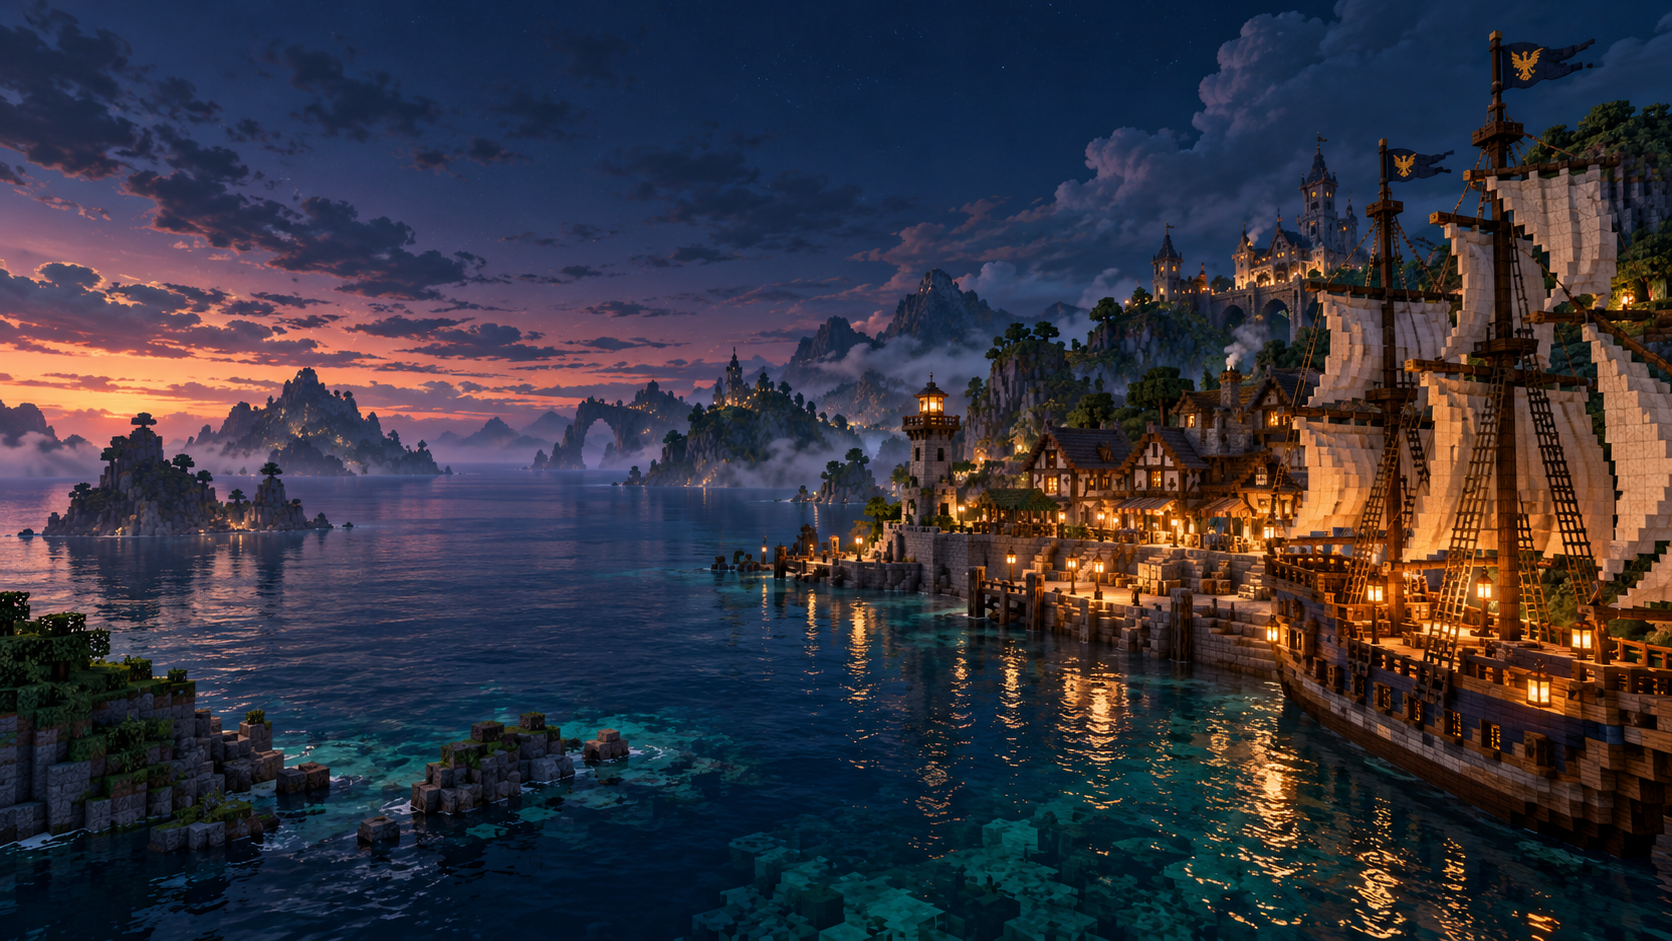
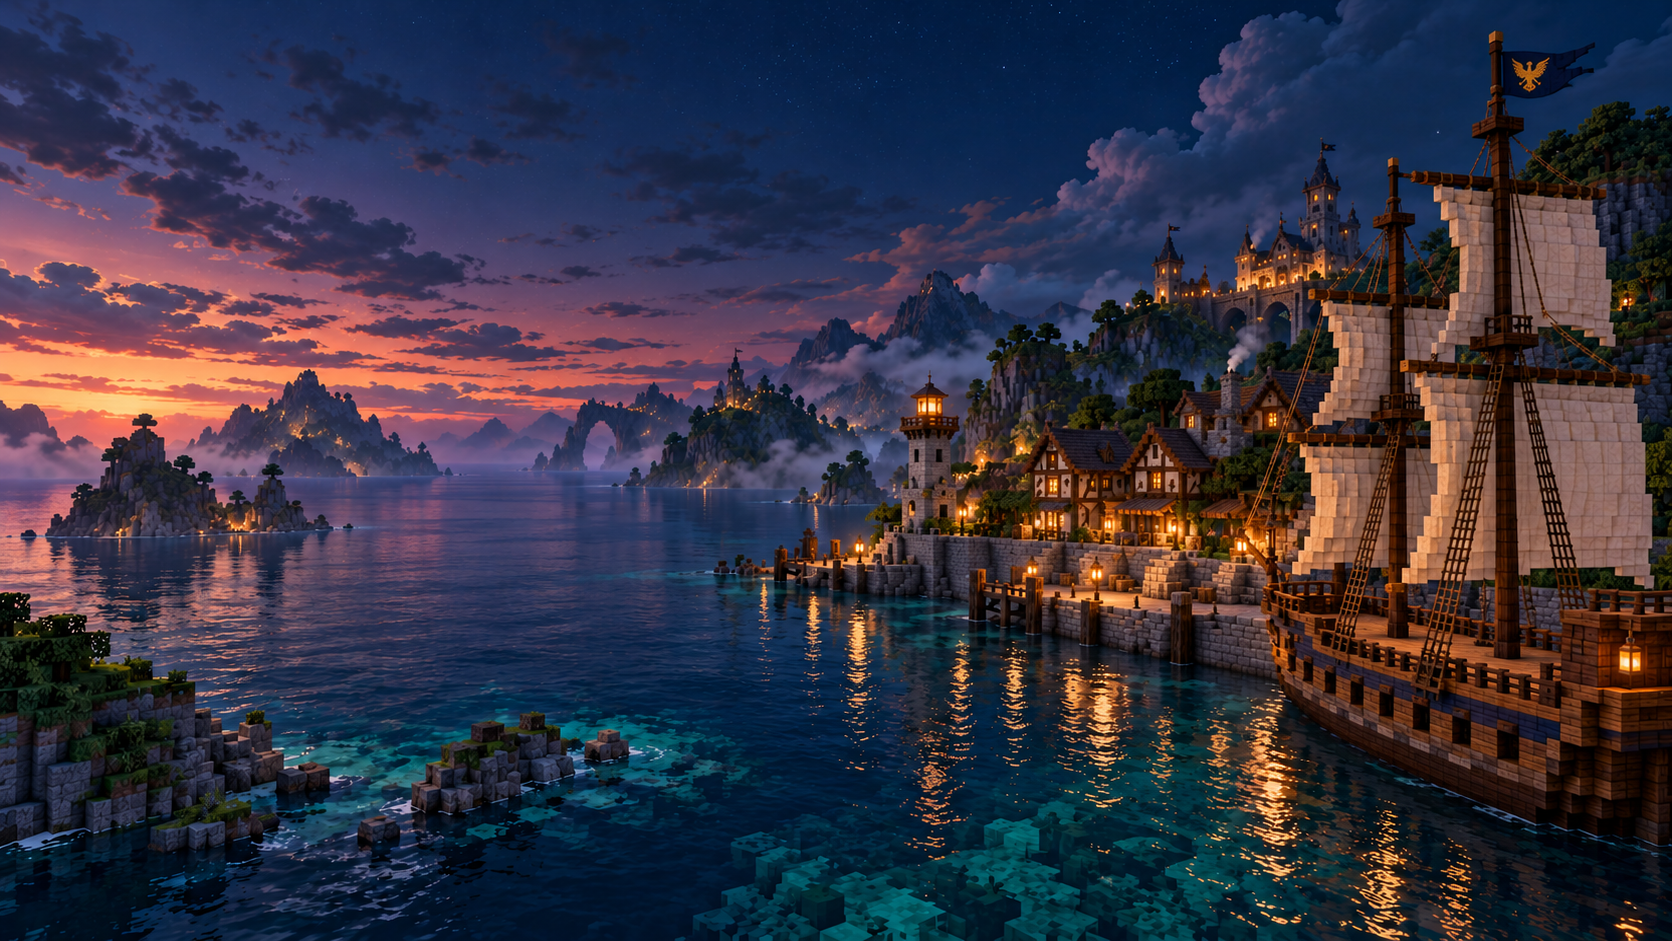
Clean up ship and waterfront in shared harbour background

diff --git a/ART.md b/ART.md
@@ -27,3 +27,10 @@ harbour with stone waterfront, timber bakeries and cottages, distant green islan
 mountains, volumetric mist, water reflections and crisp voxel geometry. Keep the left
 and centre atmospheric and open for text. Restrained navy, teal, wood and amber palette.
 No lettering, logos, oversized characters, interface, frame or watermark.
+
+The harbour cleanup simplifies the ship to two masts, clearer square sails and
+purposeful rigging. Street lamps and rows of glowing deck fixtures are removed
+from the ship; a single cabin lantern remains. Quayside lighting, simpler harbour
+buildings and a clearer ship silhouette retain the original blue-hour composition.
+The site and launcher share this asset; packaged launchers need a new build to
+include the updated background.
